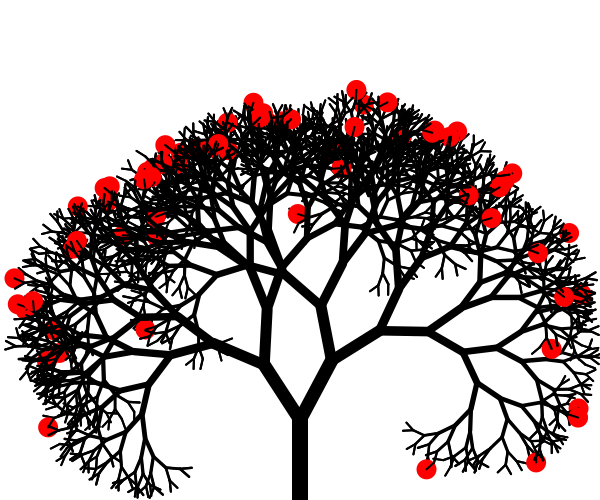
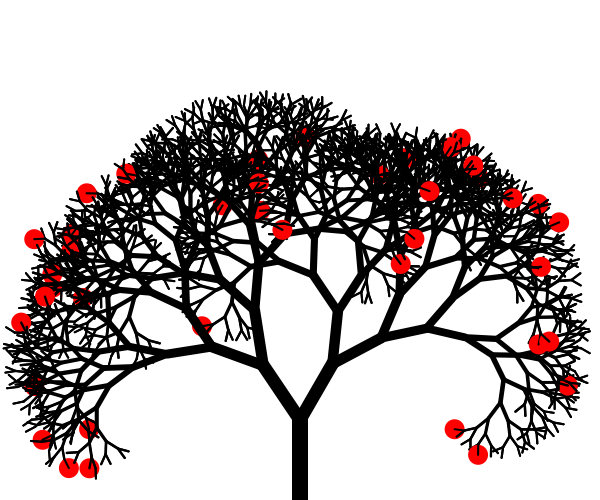
arvore_fractal-concluida

diff --git a/ed/fractais_png/src/go/main.go b/ed/fractais_png/src/go/main.go
@@ -34,10 +34,9 @@ func main() {
 		pen.Left(36) // gira
 	}
 
-	pen.SavePNG("tree.png")
+	pen.SavePNG("teste.png")
 	fmt.Println("PNG file created successfully.")
-}
-*/
+}*/
 
 package main
 
@@ -46,38 +45,33 @@ import (
 	"math/rand"
 )
 
-func ri(inf, sup int) float64 {
-	return float64(rand.Intn(sup-inf+1) + inf)
+func randInt(min, max int) int {
+	return min + rand.Intn(max-min+1)
 }
 
-func arvere(pen *Pen, dist float64) {
-	if dist < 10 {
-		if ri(0, 50) == 0 {
-			pen.SetRGB(255, 0, 0)
-			pen.FillCircle(10)
-		}
-		return
+func arvore(pen *Pen, dist float64){
+	if dist < 10{
+		return;
 	}
-	ang_dir := ri(10, 40)
-	ang_esq := ri(10, 40)
-
-	pen.SetLineWidth(dist / 5)
-	pen.SetRGB(0, 0, 0)
-	pen.Walk(dist)
-	pen.Right(ang_dir)
-	arvere(pen, dist*(ri(80, 85)/100))
-	pen.Left(ang_dir + ang_esq)
-	arvere(pen, dist*(ri(80, 85)/100))
-	pen.Right(ang_esq)
-	pen.SetRGB(0, 0, 0)
+	ang := 40.0
+	fator := 0.78
+	pen.Walk(dist);
+	pen.Right(ang);
+	arvore(pen, dist * fator)
+	pen.Right(-2 * ang);
+	arvore(pen, dist * fator)
+	pen.Right(ang)
 	pen.Walk(-dist)
 }
 
 func main() {
-	pen := NewPen(600, 500)
-	pen.SetHeading(90)
-	pen.SetPosition(300, 500)
-	arvere(pen, 80)
-	pen.SavePNG("tree.png")
+	pen := NewPen(500, 500);
+	pen.SetRGB(0, 0, 0);
+	pen.SetHeading(90);
+	pen.SetPosition(250, 500);
+
+	arvore(pen, 120);
+
+	pen.SavePNG("arvore.png")
 	fmt.Println("PNG file created successfully.")
 }

diff --git a/ed/fractais_png/src/go/tree.md b/ed/fractais_png/src/go/tree.md
@@ -1,0 +1,42 @@
+package main
+
+import (
+	"fmt"
+	"math/rand"
+)
+
+func ri(inf, sup int) float64 {
+	return float64(rand.Intn(sup-inf+1) + inf)
+}
+
+func arvere(pen *Pen, dist float64) {
+	if dist < 10 {
+		if ri(0, 50) == 0 {
+			pen.SetRGB(255, 0, 0)
+			pen.FillCircle(10)
+		}
+		return
+	}
+	ang_dir := ri(10, 40)
+	ang_esq := ri(10, 40)
+
+	pen.SetLineWidth(dist / 5)
+	pen.SetRGB(0, 0, 0)
+	pen.Walk(dist)
+	pen.Right(ang_dir)
+	arvere(pen, dist*(ri(80, 85)/100))
+	pen.Left(ang_dir + ang_esq)
+	arvere(pen, dist*(ri(80, 85)/100))
+	pen.Right(ang_esq)
+	pen.SetRGB(0, 0, 0)
+	pen.Walk(-dist)
+}
+
+func main() {
+	pen := NewPen(600, 500)
+	pen.SetHeading(90)
+	pen.SetPosition(300, 500)
+	arvere(pen, 80)
+	pen.SavePNG("tree.png")
+	fmt.Println("PNG file created successfully.")
+}
